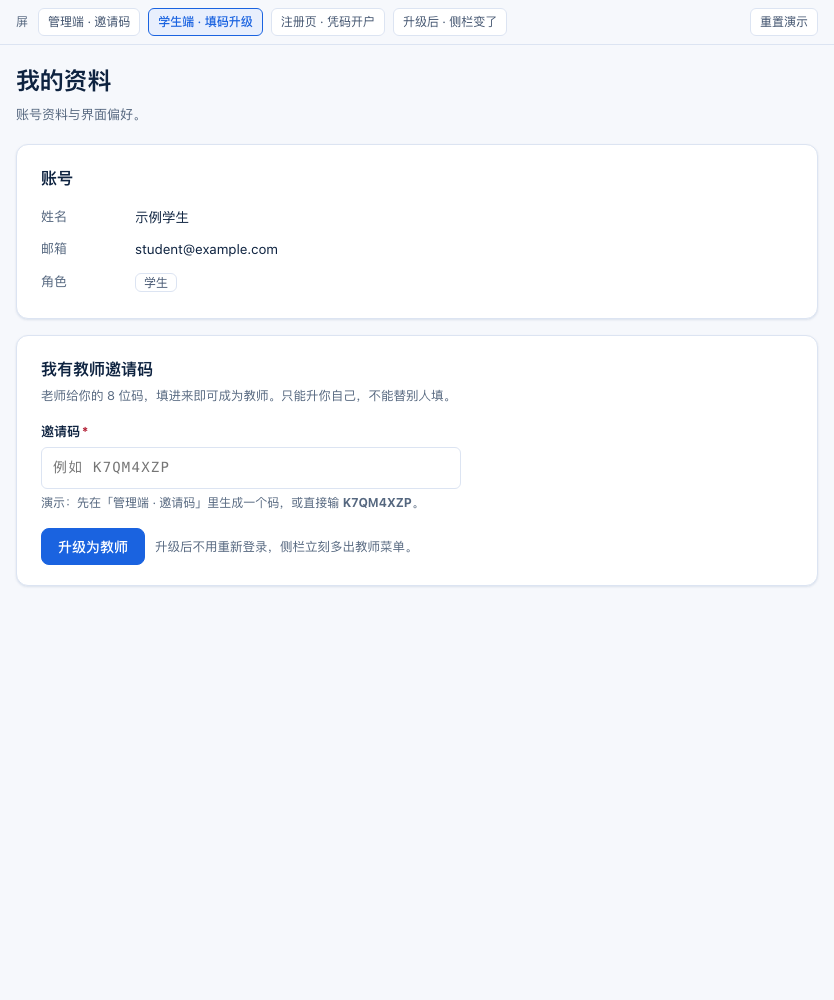
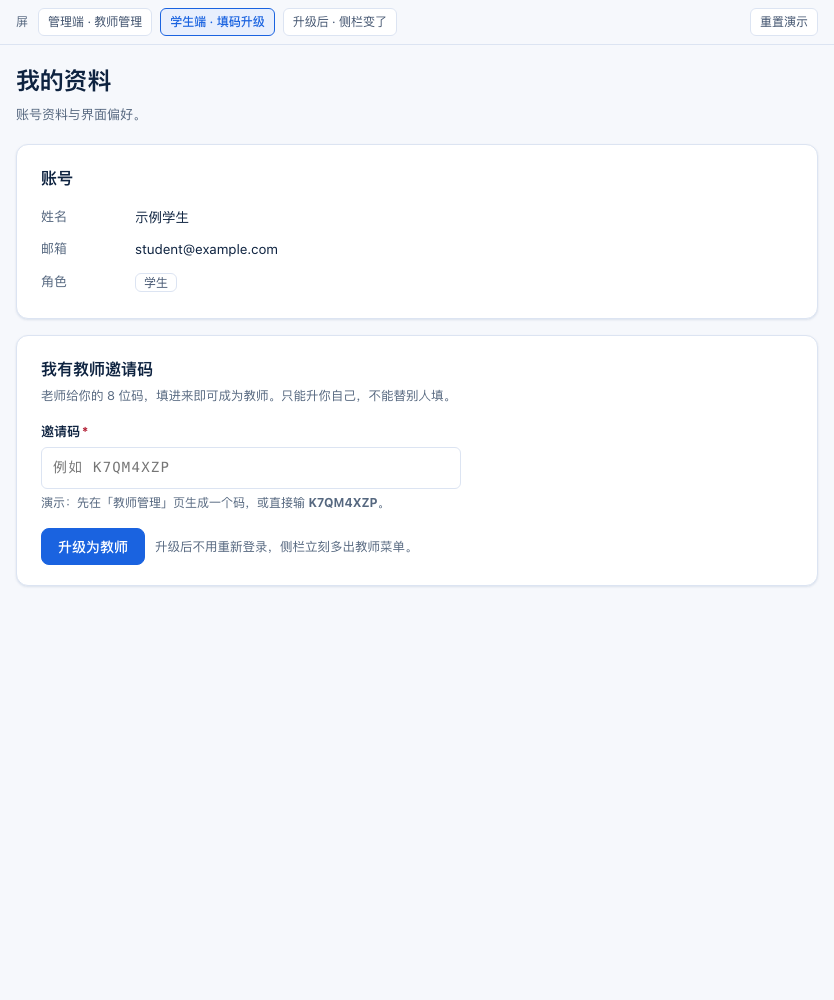
docs(mock): 砍掉注册页那条腿（用户否掉），原型 3 屏；补「升级后记录与入口」三层核对
用户 2026-10-30：「为了一个 1% 的教师，在所有注册页显示教师邀请码真的很不划算…… 注册账号不要改，
连文案都不要加，就『创建账号 / 我已注册』两个按钮。」照办：删掉第 3 屏与注册页的交互代码，
管理端说明改成「对方先按平常流程注册，登录后在『我的资料』里填码升级」。

同时把用户问的「升级后学生期记录还在不在」查清写进 README：
- 数据：全在（学习数据按 user_id 挂，升级只是翻 users.role）；
- 接口：教师能调（vocab 只要求已登录，路由只受 features.vocab 开关）；
- 入口：**今天会丢** —— RoleNavMatrix 的 TEACHER 集合没有 nav.vocab.review/lists/library，
  前端不做角色判断，所以必须后端加 key；另外 HomeRouter 按角色分流，教师首页也没有复习入口。
- 并注明今天的兑换代码是新建 User（AuthEndpoint.java:155-160），不是真升级 —— 记录能留的前提就是改它。

复测三档（1440/1024/834）无横向溢出；截图 3 桌面 + 3 平板。

Changed region(s): [[0.1247, 0.0, 0.5923, 0.031], [0.1247, 0.496, 0.4988, 0.527]]

diff --git a/docs/mock/teacher-invite-2026-10-30/index.html b/docs/mock/teacher-invite-2026-10-30/index.html
@@ -118,9 +118,6 @@
     .main { padding:16px 16px 64px; }
     .top { padding:8px 16px; }
   }
-  /* 注册页是公开页，没有应用壳层 */
-  body.public .layout { grid-template-columns:1fr; }
-  body.public .side { display:none; }
 
   [hidden] { display:none !important; }
   .screen { display:block; }
@@ -139,7 +136,6 @@
       <span class="tag">屏</span>
       <button data-go="admin">管理端 · 教师管理</button>
       <button data-go="redeem">学生端 · 填码升级</button>
-      <button data-go="register">注册页 · 凭码开户</button>
       <button data-go="after">升级后 · 侧栏变了</button>
       <span class="spacer"></span>
       <button id="reset">重置演示</button>
@@ -159,7 +155,7 @@
               <div class="grow">
                 <h2>教师邀请码</h2>
                 <div class="small muted" style="margin-top:4px">
-                  教师没有自助注册。生成一个码发给对方：已登录的学生在「我的资料」里填入即刻升级；还没账号的人可在注册页凭码开户。码一次性、3 天过期。
+                  教师没有自助注册。生成一个码发给对方：对方先按平常流程注册一个账号，登录后在「我的资料」里填入此码，即刻升为教师。码一次性、3 天过期。
                 </div>
               </div>
               <button class="btn primary" id="gen">生成邀请码</button>
@@ -243,42 +239,6 @@
               </div>
             </form>
             <div class="hint ok" id="redeem-ok" hidden></div>
-          </div>
-        </div>
-      </section>
-
-      <!-- 3. 注册页：凭码开户（还没账号的新老师） -->
-      <section class="screen" data-screen="register" hidden>
-        <div class="page-head">
-          <h1>注册</h1>
-          <div class="sub">学生自助注册；老师可以凭邀请码直接开户。</div>
-        </div>
-
-        <div class="card" style="max-width:560px">
-          <div class="card-body">
-            <h2>创建账号</h2>
-            <form id="register-form">
-              <div class="field">
-                <label for="reg-email">邮箱<span class="req">*</span></label>
-                <input id="reg-email" type="email" placeholder="you@example.com">
-              </div>
-              <div class="field">
-                <label for="reg-pwd">密码<span class="req">*</span></label>
-                <input id="reg-pwd" type="password" placeholder="至少 8 位">
-              </div>
-              <div class="field">
-                <label for="reg-code">教师邀请码（可选）</label>
-                <input id="reg-code" maxlength="8" placeholder="不填就是学生"
-                       style="text-transform:uppercase; font-family:ui-monospace,Menlo,monospace; letter-spacing:1.2px">
-                <div class="help">填了建出来就是教师账号；不填就是学生。学生以后也能在「我的资料」里补填升级。</div>
-                <div class="err" id="reg-err" hidden></div>
-              </div>
-              <div class="row" style="margin-top:18px">
-                <button class="btn primary" type="submit">创建账号</button>
-                <button class="btn" type="button" data-go="redeem">我是已注册的学生</button>
-              </div>
-            </form>
-            <div class="hint ok" id="reg-ok" hidden></div>
           </div>
         </div>
       </section>
@@ -451,11 +411,11 @@
   }
 
   function showScreen(name) {
-    var known = ['admin', 'redeem', 'register', 'after']
+    var known = ['admin', 'redeem', 'after']
     if (known.indexOf(name) < 0) name = 'admin'
     $$('.screen').forEach(function (s) { s.hidden = s.getAttribute('data-screen') !== name })
     $$('.top [data-go]').forEach(function (b) { b.classList.toggle('on', b.getAttribute('data-go') === name) })
-    // 每一屏看的是不同身份：管理端=管理员，填码=当前身份，注册页=公开页（无壳层），升级后=教师
+    // 每一屏看的是不同身份：管理端=管理员，填码=当前身份，升级后=教师
     if (name === 'admin') { state.navRole = 'ADMIN'; state.activeNav = 'teachers' }
     else if (name === 'after') { state.role = 'TEACHER'; state.navRole = 'TEACHER'; state.activeNav = 'home' }
     else if (name === 'redeem') {
@@ -530,35 +490,6 @@
     renderNav()
   })
 
-  // ---- 注册页：凭码开户 ----
-  $('#register-form').addEventListener('submit', function (e) {
-    e.preventDefault()
-    var email = ($('#reg-email').value || '').trim()
-    var pwd = $('#reg-pwd').value || ''
-    var code = ($('#reg-code').value || '').trim().toUpperCase()
-    hide('#reg-err'); hide('#reg-ok')
-    if (!email || email.indexOf('@') < 0) { fail('#reg-err', '请填一个有效邮箱。'); return }
-    if (pwd.length < 8) { fail('#reg-err', '密码至少 8 位。'); return }
-    if (code) {
-      var inv = findInvite(code)
-      if (!inv) { fail('#reg-err', '邀请码无效或已过期。不填可以按学生注册。'); return }
-      var st = stateOf(inv)
-      if (st !== 'active') { fail('#reg-err', '这个邀请码' + (st === 'used' ? '已经被用了' : st === 'revoked' ? '已被撤销' : '已过期') + '。'); return }
-      inv.state = 'used'
-      inv.usedBy = email
-      state.role = 'TEACHER'
-      renderInvites(); renderNav()
-      var ok = $('#reg-ok')
-      ok.hidden = false
-      ok.innerHTML = '教师账号已创建：' + email + '。激活邮件已发出，点链接后即可登录。'
-      return
-    }
-    var ok2 = $('#reg-ok')
-    ok2.hidden = false
-    ok2.className = 'hint ok'
-    ok2.innerHTML = '学生账号已创建：' + email + '。激活邮件已发出。'
-  })
-
   function fail(sel, msg) {
     var e = $(sel)
     e.textContent = msg
@@ -583,7 +514,7 @@
     goto('admin')
   })
 
-  // 便于逐屏截图：?shot=admin|redeem|register|after
+  // 便于逐屏截图：?shot=admin|redeem|after
   var params = new URLSearchParams(location.search)
   var shot = params.get('shot')
   if (shot) { location.hash = shot }

diff --git a/docs/mock/teacher-invite-2026-10-30/README.md b/docs/mock/teacher-invite-2026-10-30/README.md
@@ -3,21 +3,41 @@
 对应需求：教师入驻走邀请码（承接 `AC-3.2`）、`AC-3.3` 改成「真升级、只能升自己」。
 单文件、无依赖、无构建：**双击 `index.html` 就能点**。演示数据全部是假的（侧栏底部有标注）。
 
-## 已拍板（2026-10-30，用户三点回答）
+## 已拍板（2026-10-30，用户三轮回答）
 
 | 问题 | 决定 | 落在哪 |
 | :--- | :--- | :--- |
-| 邀请码界面放哪 | **单开 `/admin/teachers` 一页**，侧栏加「教师管理」 | 本原型的第 1 屏；用户列表/改角色 014 也进这一页 |
-| 注册页上的码 | **可选字段**（填了建教师、不填建学生） | 第 3 屏；`AC-73.9` 要补一句例外 |
-| 升级后怎么变 | **即时刷新，不用重新登录** | 第 4 屏；实现要给 `features.tsx` 的 effect 补 `me?.role` 依赖 |
+| 邀请码界面放哪 | **单开 `/admin/teachers` 一页**，侧栏加「教师管理」 | 第 1 屏；用户列表/改角色 014 也进这一页 |
+| 注册页要不要出现邀请码 | **一个字都不改**：不加字段，也不加指路文案，就「创建账号 / 我已注册」两个按钮 | 原型**没有**注册页那一屏（做过、被否，已删） |
+| 升级后怎么变 | **即时刷新，不用重新登录** | 第 3 屏；实现要给 `features.tsx` 的 effect 补 `me?.role` 依赖 |
+| 老师怎么有账号 | 先按平常流程注册（那时就是学生），**登录后**在 `/profile` 填码升级 | 第 2 屏；不保留「凭码开户」那条腿 |
+
+为什么砍掉注册页那条腿：不为 1% 的老师在所有注册页上挂一个陌生字段；而且它会在公开的
+`POST /api/auth/register`（`RegistrationEndpoint.java:64` 只有 channel/email/password/displayName）
+里开一个「有码就建 TEACHER」的分支，与 `AC-73.9`「注册只能 STUDENT」正面冲突，得永久背一条例外。
+砍掉后这条端点可以直接收紧成**必须登录**，未登录 401。
 
 ## 这一版在回答什么
 
-1. **`/admin/teachers` 长什么样**：上面是邀请码（生成 / 列表 / 复制 / 撤销），下面是「下一版：用户列表」的占位，让人一眼看出这页以后会长成什么。
-2. **码是常驻列表而不是只弹一次**：今天只有 `POST /api/admin/teacher-invites`（`AdminEndpoint.java:34`），没有 GET，生成后刷新就再也找不回码；列表要配一条 GET。
+1. **`/admin/teachers` 长什么样**：上面是邀请码（生成 / 列表 / 复制 / 撤销），下面是「下一版：用户列表」灰态占位，一眼看出这页以后会长成什么。
+2. **码是常驻列表而不是只弹一次**：今天只有 `POST /api/admin/teacher-invites`（`AdminEndpoint.java:34`），没有 GET，生成后刷新就找不回码。
 3. **学生端入口在 `/profile` 资料卡下面独立一块**，不是塞进资料表单。
-4. **两条腿都要有**：已登录学生填码升自己；还没账号的新老师可在注册页凭码开户 —— 否则「真升级」意味着老师必须先装作学生注册一次。
-5. **升级后侧栏当场变**（第 4 屏），并给出成功提示。
+4. **升级后侧栏当场变**，并且 —— 关键 —— 第 3 屏里**「背单词」还在**（见下节）。
+
+## 升级后，学生期的记录和入口（2026-10-30 用户提问）
+
+三层要分开看，只有第一层靠代码"自动成立"：
+
+| 层 | 现状 | 依据 |
+| :--- | :--- | :--- |
+| **数据** | 全在 —— 只要做「真升级」 | 学习数据全按 `user_id` 挂（`ReviewPrefsStore.java:36,53`）；升级是翻 `users.role` 一列，id 不变 |
+| **接口** | 教师能调，没被角色挡 | vocab 只走 `SecurityConfig.java` 的 `.anyRequest().authenticated()`；路由只受 `features.vocab` 开关（`App.tsx:210`） |
+| **入口** | **今天会丢** | `RoleNavMatrix.ROLE_KEYS` 里 TEACHER 只有 `nav.vocab.sets / nav.vocab.assign`（发词用），没有 `nav.vocab.review / lists / library`；前端不做角色判断，所以必须后端加 key |
+
+补充两点容易漏的：
+
+- **今天的升级代码不是真升级**：`AuthEndpoint.java:155-160` 兑换时 `new User(..., TEACHER, ...)`，邮箱已注册直接 409 —— 按现状，老师要么开新号（旧记录留在废号上），要么根本升不了。这正是要改它的原因。
+- **落地页也一起变**：`HomeRouter`（`App.tsx:128`）按角色分流，教师落在跨班首页，「今日」页不再出现。所以即便侧栏放出了背单词，教师首页也没有「继续复习」的入口。
 
 ## 屏与深链
 
@@ -25,8 +45,7 @@
 | :--- | :--- | :--- |
 | 管理端 · 教师管理 | `#admin` | `/admin/teachers`：生成 / 列表（可用·已兑换·已过期·已撤销）/ 复制 / 撤销；底部「下一版：用户列表（本轮不做）」灰态占位 |
 | 学生端 · 填码升级 | `#redeem` | 输入 8 位码 → 成功态 + 侧栏当场变成教师；四种失败文案（无效 / 已过期 / 已兑换 / 已撤销） |
-| 注册页 · 凭码开户 | `#register` | 公开页无壳层；邀请码是**可选字段** |
-| 升级后 | `#after` | 侧栏多出教师菜单（带「新」标）+ 顶部成功提示 |
+| 升级后 | `#after` | 侧栏多出教师菜单（带「新」标）、**「背单词」仍在**、顶部成功提示 |
 
 演示码：`K7QM4XZP`（可用）、`2FB9WDRT`（可用）；其余三条分别演示「已过期 / 已兑换 / 已撤销」。
 右上角「重置演示」把状态打回初始值。
@@ -35,33 +54,32 @@
 
 | 项 | 值 | 说明 |
 | :--- | :--- | :--- |
-| 路由 | `/admin/teachers` | 单开一页；侧栏项 label「教师管理」，图标一组人 |
-| 码形 | 8 位，去掉易混字符（无 `0/O/1/I`） | 与后端 `AdminService.newCode()` 的字母表一致 |
-| 有效期 | 3 天 | 后端 `createTeacherInvite(me.id(), 3)` 已经是这个值 |
+| 路由 | `/admin/teachers` | 单开一页；侧栏 label「教师管理」，图标一组人 |
+| 码形 | 8 位，去掉易混字符（无 `0/O/1/I`） | 与 `AdminService.newCode()` 的字母表一致 |
+| 有效期 | 3 天 | 后端 `createTeacherInvite(me.id(), 3)` 已是这个值 |
 | 归属 | 生成它的管理员 | `TeacherInvite.createdBy` 已有 |
-| 撤销 | 未兑换才可撤销 | 已兑换的码不撤销账号（撤账号走「停用账号」） |
-| 列表 | 常驻，含状态与兑换人 | 需要补 `GET /api/admin/teacher-invites`（今天只有 POST） |
-| 升级语义 | 登录态 → 只升自己，忽略请求体邮箱 | `AC-3.3` 新语义；非 STUDENT 返回 409 |
-| 未登录 | 码 + 邮箱 + 密码 → 建 TEACHER | 旧路径保留，同一个码、同样一次性 |
+| 撤销 | 未兑换才可撤销 | 已兑换的不撤账号（撤账号走「停用账号」） |
+| 列表 | 常驻，含状态与兑换人 | 需补 `GET /api/admin/teacher-invites` |
+| 升级语义 | 登录态 → 只升自己，忽略请求体邮箱；未登录 401 | `AC-3.3` 新语义；非 STUDENT 返回 409 |
 | 提权边界 | 码只能升到 TEACHER，永不 ADMIN | `AC-3.5` 不变；管理员由管理员在后台授予（014） |
 | 审计 | 每次成功兑换写一条 | 谁 / 什么码 / 何时 / 从哪个角色 |
-| 升级后 | 即时刷新，不重登 | `features.tsx` 的 effect 依赖要加 `me?.role` |
+| 升级后 | 即时刷新，不重登；背单词入口保留 | `features.tsx` 依赖加 `me?.role`；`RoleNavMatrix` 给 TEACHER 补 `nav.vocab.*` |
 
 ## 注意 / 取舍
 
-- 平板（≤1023）把侧栏收成抽屉，原型里直接收起 —— 与 `web/src/styles/app.css` 同一个断点，不自造第三档；实测三档无横向溢出。
-- 不做二维码、不做一键发送（没有可用 IM 通道）、不做批量生成：码走复制粘贴，一个人一天发不出十张。
-- 「下一版：用户列表」是**灰态占位**，只用来告诉 review 这页的边界，本轮不实现。
+- 平板（≤1023）把侧栏收成抽屉，原型里直接收起 —— 与 `web/src/styles/app.css` 同一个断点，不自造第三档。
+- 不做二维码、不做一键发送（没有可用 IM 通道）、不做批量生成。
+- 「下一版：用户列表」是灰态占位，只用来钉边界，本轮不实现。
 
 ## 截图
 
-`shots/` 下 7 张：4 张桌面（1440×1180：admin / redeem / register / after）+ 3 张平板
+`shots/` 下 6 张：3 张桌面（1440×1180：admin / redeem / after）+ 3 张平板
 （`tablet-834-admin` / `tablet-834-redeem` / `tablet-1024-admin`）。
 
 ```bash
 cd docs/mock/teacher-invite-2026-10-30
 CHROME="/Applications/Google Chrome.app/Contents/MacOS/Google Chrome"
-for s in admin redeem register after; do
+for s in admin redeem after; do
   "$CHROME" --headless=new --no-sandbox --disable-gpu --hide-scrollbars \
     --user-data-dir="$PWD/.chrome-profile" --virtual-time-budget=2000 \
     --window-size=1440,1180 --screenshot="$PWD/shots/$s.png" \
@@ -69,4 +87,4 @@ for s in admin redeem register after; do
 done
 ```
 
-平板两档（834×1194 / 1024×1366）实测无横向溢出：`scrollWidth - innerWidth = 0`（四屏 × 三档全部 0）。
+三档（1440 / 1024 / 834）实测无横向溢出：`scrollWidth - innerWidth = 0`。
